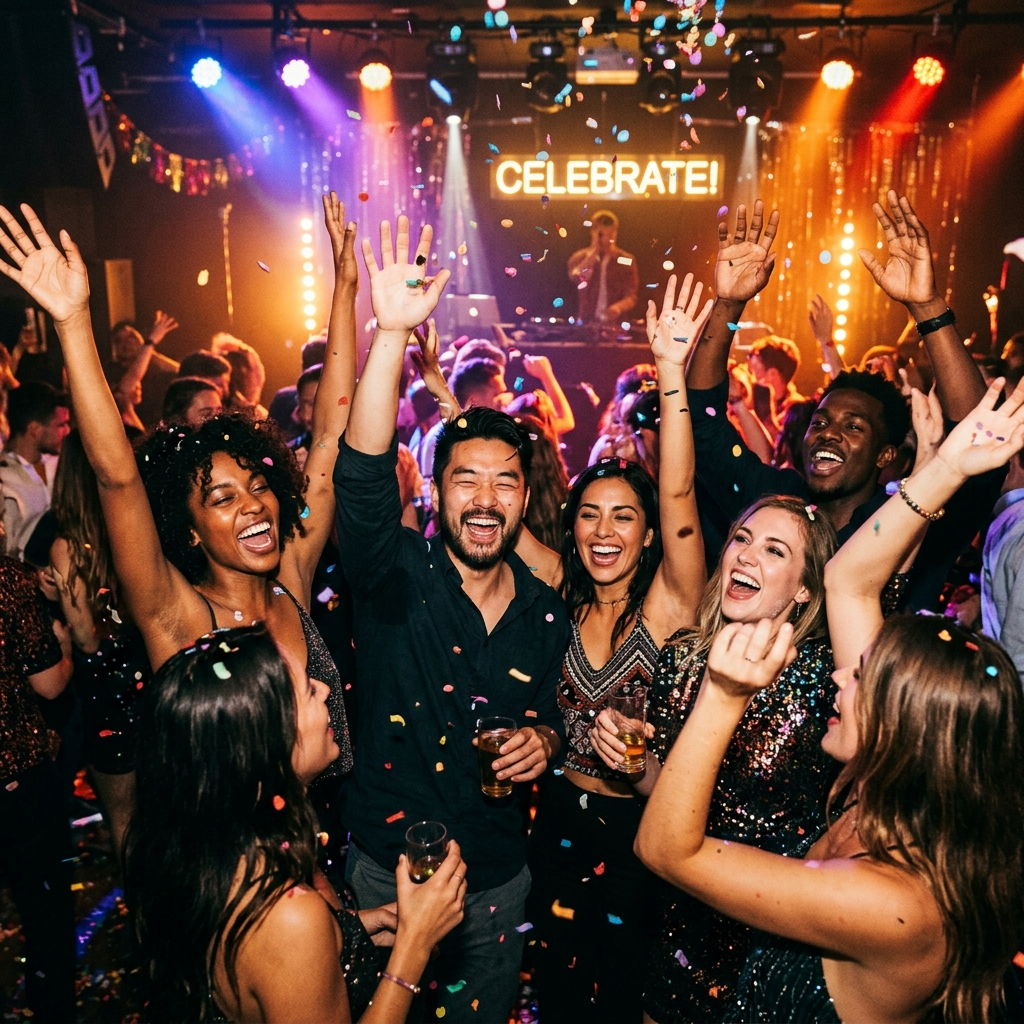
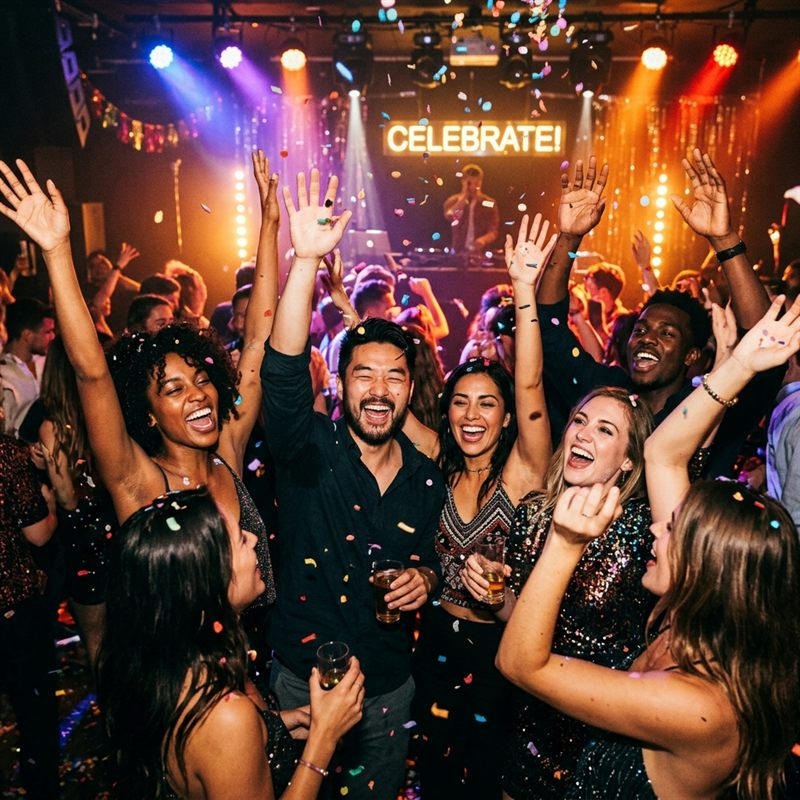
style(blog): enhance typography, boxed headings, cover image & embedded illustrations

diff --git a/src/views/BlogPost.jsx b/src/views/BlogPost.jsx
@@ -75,45 +75,63 @@ export default function BlogPost({ slug, onBackToHome, onGoToConfigurator, onNav
       </header>
 
       {/* Article Header */}
-      <div className="max-w-3xl mx-auto px-4 pt-12 pb-8">
-        <div className="flex flex-wrap items-center gap-4 text-xs font-semibold text-slate-400 uppercase tracking-wider mb-4">
-          <span className="text-orange-400 bg-orange-500/10 px-3 py-1 rounded-full border border-orange-500/20">
+      <div className="max-w-4xl mx-auto px-4 sm:px-6 pt-10 pb-8">
+        <div className="flex flex-wrap items-center gap-4 text-xs font-semibold text-slate-400 uppercase tracking-wider mb-5">
+          <span className="text-amber-400 bg-amber-500/10 px-3 py-1 rounded-full border border-amber-500/20 font-bold">
             {post.category || (language === "en" ? "Guide" : "Ratgeber")}
           </span>
-          <span className="flex items-center gap-1">
-            <Calendar className="w-3.5 h-3.5 text-slate-400" />
+          <span className="flex items-center gap-1.5">
+            <Calendar className="w-3.5 h-3.5 text-amber-400" />
             {post.date}
           </span>
-          <span className="flex items-center gap-1">
-            <User className="w-3.5 h-3.5 text-slate-400" />
+          <span className="flex items-center gap-1.5">
+            <User className="w-3.5 h-3.5 text-amber-400" />
             {post.author || "Dirk Schmetzer"}
           </span>
           {post.readTime && (
-            <span className="flex items-center gap-1">
-              <Clock className="w-3.5 h-3.5 text-slate-400" />
+            <span className="flex items-center gap-1.5">
+              <Clock className="w-3.5 h-3.5 text-amber-400" />
               {post.readTime}
             </span>
           )}
         </div>
 
-        <h1 className="text-3xl md:text-5xl font-extrabold text-white leading-tight tracking-tight mb-6">
+        <h1 className="text-2xl sm:text-4xl md:text-5xl font-black text-white leading-[1.2] tracking-tight mb-6">
           {post.title}
         </h1>
 
-        <p className="text-lg text-slate-300 font-light leading-relaxed border-l-4 border-orange-500 pl-4 mb-8">
+        <div className="text-base sm:text-lg text-slate-200 font-normal leading-relaxed bg-slate-900/90 border border-slate-800 border-l-4 border-l-amber-500 p-5 rounded-r-2xl mb-8 shadow-md">
           {post.excerpt}
-        </p>
+        </div>
 
-        <hr className="border-slate-800 my-8" />
+        {/* Hero Cover Image */}
+        {post.coverImage && (
+          <div className="relative w-full h-64 sm:h-96 md:h-[420px] rounded-2xl sm:rounded-3xl overflow-hidden border border-slate-800 shadow-2xl mb-10 group">
+            <img
+              src={post.coverImage}
+              alt={post.title}
+              width="1200"
+              height="800"
+              className="w-full h-full object-cover group-hover:scale-105 transition-transform duration-700"
+              loading="eager"
+              fetchPriority="high"
+              decoding="async"
+            />
+            <div className="absolute inset-0 bg-gradient-to-t from-slate-950 via-slate-950/30 to-transparent" />
+            <div className="absolute bottom-4 left-4 right-4 flex items-center justify-between text-xs text-slate-300">
+              <span className="bg-amber-500 text-slate-950 font-black px-3 py-1 rounded-lg uppercase tracking-wider shadow">
+                {post.category || (language === "en" ? "Guide" : "Ratgeber")}
+              </span>
+              <span className="bg-slate-950/80 backdrop-blur-md px-3 py-1 rounded-lg border border-white/10 text-slate-300 font-medium">
+                MyMusicMoment24 • Seit 2024
+              </span>
+            </div>
+          </div>
+        )}
 
-        {/* Rendered HTML content */}
+        {/* Rendered HTML content with High-Readability & Boxed Headings */}
         <div
-          className="prose prose-invert prose-orange max-w-none 
-            prose-headings:text-white prose-headings:font-bold prose-h2:text-2xl prose-h2:mt-10 prose-h2:mb-4
-            prose-p:text-slate-300 prose-p:leading-relaxed prose-p:mb-5
-            prose-strong:text-white prose-strong:font-bold
-            prose-ul:text-slate-300 prose-ul:my-4 prose-li:my-1
-            prose-a:text-amber-400 hover:prose-a:text-amber-300"
+          className="blog-content"
           dangerouslySetInnerHTML={{ __html: post.html }}
         />
 

diff --git a/src/index.css b/src/index.css
@@ -7,3 +7,158 @@
     @apply bg-slate-950 text-slate-100;
   }
 }
+
+/* Blog Content Typography & Boxed Headings */
+.blog-content {
+  font-size: 1.125rem; /* 18px */
+  line-height: 1.85;
+  color: #cbd5e1; /* slate-300 */
+}
+
+.blog-content p {
+  margin-top: 1.5rem;
+  margin-bottom: 1.5rem;
+  font-size: 1.125rem;
+  line-height: 1.85;
+  color: #cbd5e1;
+}
+
+/* Viereckiger Rahmen für H2-Überschriften */
+.blog-content h2 {
+  font-size: 1.625rem; /* ~26px */
+  font-weight: 900;
+  color: #ffffff;
+  background: rgba(15, 23, 42, 0.95); /* slate-900 */
+  border: 1px solid #334155; /* slate-700 */
+  border-left: 6px solid #f59e0b; /* amber-500 goldener Akzent */
+  padding: 1.1rem 1.4rem;
+  border-radius: 0.85rem;
+  margin-top: 3.25rem;
+  margin-bottom: 1.5rem;
+  box-shadow: 0 10px 25px -5px rgba(0, 0, 0, 0.35);
+  display: block;
+}
+
+@media (max-width: 640px) {
+  .blog-content h2 {
+    font-size: 1.35rem;
+    padding: 0.9rem 1.1rem;
+    margin-top: 2.5rem;
+  }
+}
+
+/* H3-Überschriften mit Akzentlinie */
+.blog-content h3 {
+  font-size: 1.3rem;
+  font-weight: 800;
+  color: #fbbf24; /* amber-400 */
+  margin-top: 2.25rem;
+  margin-bottom: 1rem;
+  padding-left: 0.85rem;
+  border-left: 3px solid #f59e0b;
+}
+
+@media (max-width: 640px) {
+  .blog-content h3 {
+    font-size: 1.15rem;
+  }
+}
+
+.blog-content h4 {
+  font-size: 1.15rem;
+  font-weight: 700;
+  color: #f8fafc;
+  margin-top: 1.5rem;
+  margin-bottom: 0.75rem;
+}
+
+.blog-content strong {
+  font-weight: 700;
+  color: #ffffff;
+}
+
+.blog-content ul {
+  margin-top: 1.25rem;
+  margin-bottom: 1.75rem;
+  padding-left: 1.5rem;
+  list-style-type: disc;
+}
+
+.blog-content ol {
+  margin-top: 1.25rem;
+  margin-bottom: 1.75rem;
+  padding-left: 1.5rem;
+  list-style-type: decimal;
+}
+
+.blog-content li {
+  margin-top: 0.6rem;
+  margin-bottom: 0.6rem;
+  line-height: 1.75;
+  color: #cbd5e1;
+}
+
+.blog-content a {
+  color: #f59e0b;
+  font-weight: 600;
+  text-decoration: underline;
+  text-underline-offset: 3px;
+  transition: color 0.2s;
+}
+
+.blog-content a:hover {
+  color: #fbbf24;
+}
+
+.blog-content blockquote {
+  border-left: 4px solid #f59e0b;
+  background: rgba(15, 23, 42, 0.6);
+  padding: 1rem 1.25rem;
+  border-radius: 0 0.75rem 0.75rem 0;
+  margin-top: 1.75rem;
+  margin-bottom: 1.75rem;
+  font-style: italic;
+  color: #e2e8f0;
+}
+
+.blog-content table {
+  width: 100%;
+  margin-top: 2rem;
+  margin-bottom: 2rem;
+  border-collapse: collapse;
+  background: rgba(15, 23, 42, 0.7);
+  border: 1px solid #334155;
+  border-radius: 0.75rem;
+  overflow: hidden;
+}
+
+.blog-content th {
+  background: #0f172a;
+  padding: 0.85rem 1rem;
+  text-align: left;
+  font-weight: 800;
+  color: #ffffff;
+  border-bottom: 2px solid #334155;
+}
+
+.blog-content td {
+  padding: 0.85rem 1rem;
+  border-bottom: 1px solid rgba(51, 65, 85, 0.6);
+  color: #cbd5e1;
+}
+
+.blog-content hr {
+  border: 0;
+  border-top: 1px solid #1e293b;
+  margin-top: 3rem;
+  margin-bottom: 3rem;
+}
+
+.blog-content img {
+  width: 100%;
+  border-radius: 1rem;
+  border: 1px solid #334155;
+  box-shadow: 0 20px 25px -5px rgba(0, 0, 0, 0.5);
+  margin-top: 2rem;
+  margin-bottom: 2rem;
+}

diff --git a/src/lib/blog.js b/src/lib/blog.js
@@ -50,11 +50,14 @@ export function getAllBlogPosts() {
     const { data, content } = parseFrontmatter(rawContent);
     const slug = data.slug || path.replace(/^.*[\\\/]/, "").replace(/\.md$/, "");
 
+    // Strip leading duplicate H1 (# Title) from markdown body if present
+    const cleanedContent = content.replace(/^#\s+[^\r\n]+\r?\n+/, "");
+
     posts.push({
       ...data,
       slug,
-      content,
-      html: marked.parse(content),
+      content: cleanedContent,
+      html: marked.parse(cleanedContent),
     });
   }
 

diff --git a/content/blog/geburtstagslied-personalisiert.md b/content/blog/geburtstagslied-personalisiert.md
@@ -47,6 +47,8 @@ Jeder Mensch fühlt Musik anders. Deshalb wählst du bei uns aus einer breiten P
 ### 3. Emotionale Bindung & Gänsehaut
 Wenn auf der Feier das Licht gedimmt wird, die Musikbox angeht und plötzlich die Stimme aus den Lautsprechern erklingt, realisiert das Geburtstagskind erst nach wenigen Sekunden: *„Das ist ja mein Song! Das geht um mich!“* Dieser Moment der Rührung und Überraschung ist unbezahlbar.
 
+![Gemeinsam feiern mit personalisierter Musik und Gänsehaut-Momenten](/images/party.jpg)
+
 ---
 
 ## Für welche Geburtstage eignen sich personalisierte Geburtstagslieder?
@@ -77,6 +79,8 @@ Mit unserem Online-Konfigurator gestaltest du dein persönliches Geburtstagslied
 ## Extra-Tipp: Die persönliche Song-Urkunde zum Überreichen
 
 Wer auf der Geburtstagsfeier nicht nur eine digitale Datei abspielen, sondern auch etwas Greifbares mit Schleife überreichen möchte, wählt unsere **personalisierte Song-Urkunde (PDF)**:
+
+![Personalisierte Song-Urkunde mit Liedtext und scannbarem QR-Code für den direkten Song-Start](/images/urkunde-beispiel.jpg)
 
 * Hochwertig gestaltetes Dokument mit edlem Siegel zum Ausdrucken und Einrahmen.
 * Der komplette Liedtext ist lesbar und ansprechend layoutet.

diff --git a/content/blog/personalisierte-geburtstagslieder.md b/content/blog/personalisierte-geburtstagslieder.md
@@ -84,10 +84,12 @@ Wir generieren die musikalischen Motive und Gesangsspuren und prüfen jeden Song
 
 Möchtest du auf der Feier etwas Greifbares zum Überreichen in den Händen halten? Unsere offizielle **Song-Urkunde** im DIN-A4-Format ist die ideale Ergänzung:
 
+![Personalisierte Song-Urkunde mit Liedtext und scannbarem QR-Code](/images/urkunde-beispiel.jpg)
+
 * Hochwertig gestaltetes PDF zum Ausdrucken und Einrahmen
 * Vollständiger, professionell gesetzter Songtext mit goldenem Siegel
 * **Scannbarer Audio-QR-Code:** Der Beschenkte scannt den Code einfach mit der Smartphone-Kamera und das Lied startet sofort!
-* Für nur **+ 9,99 €** Aufpreis direkt im Konfigurator zubuchbar.
+* Für nur **+ 4,99 €** Aufpreis direkt im Konfigurator zubuchbar.
 
 ---
 
